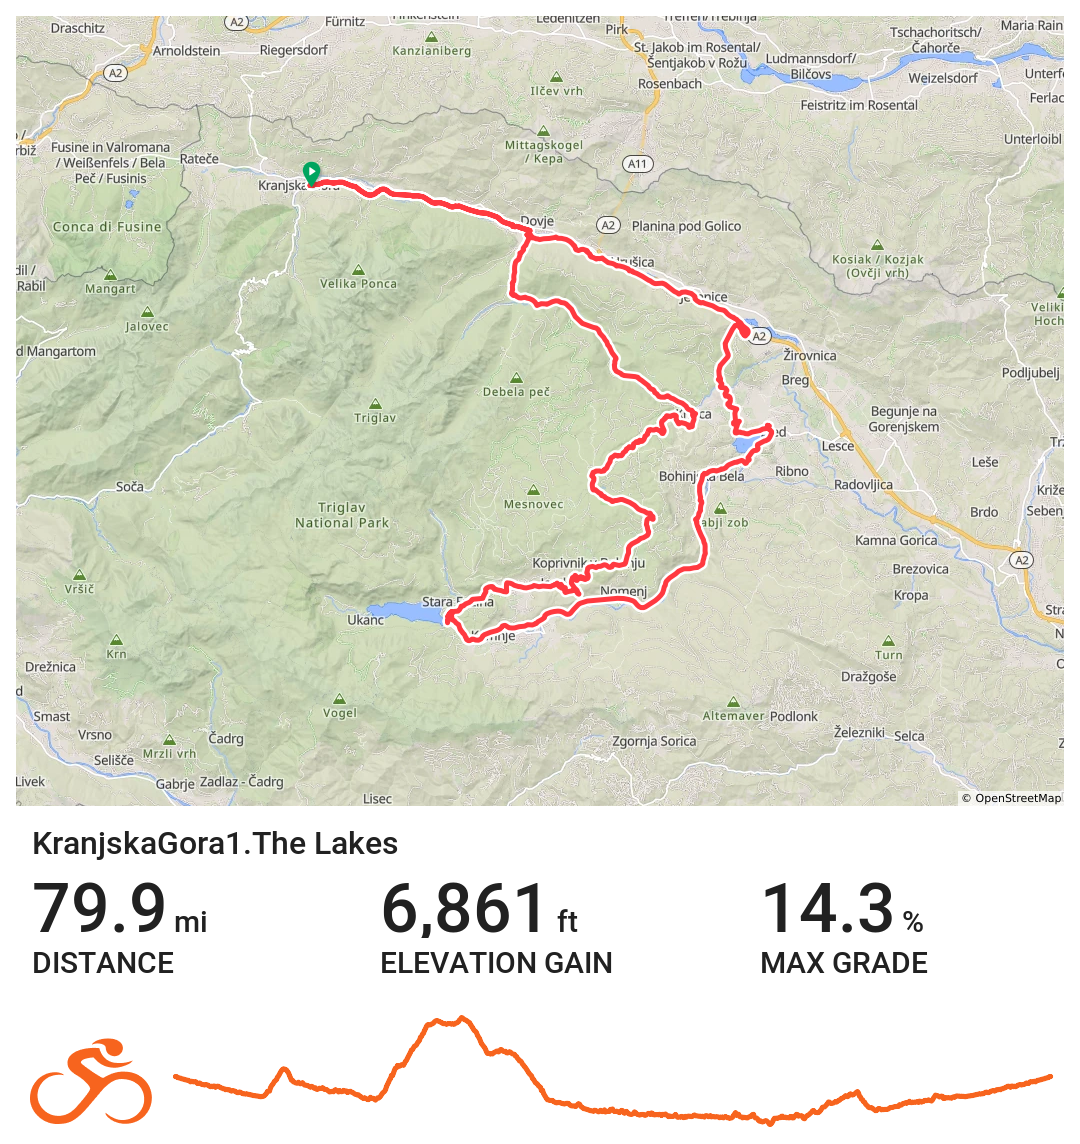
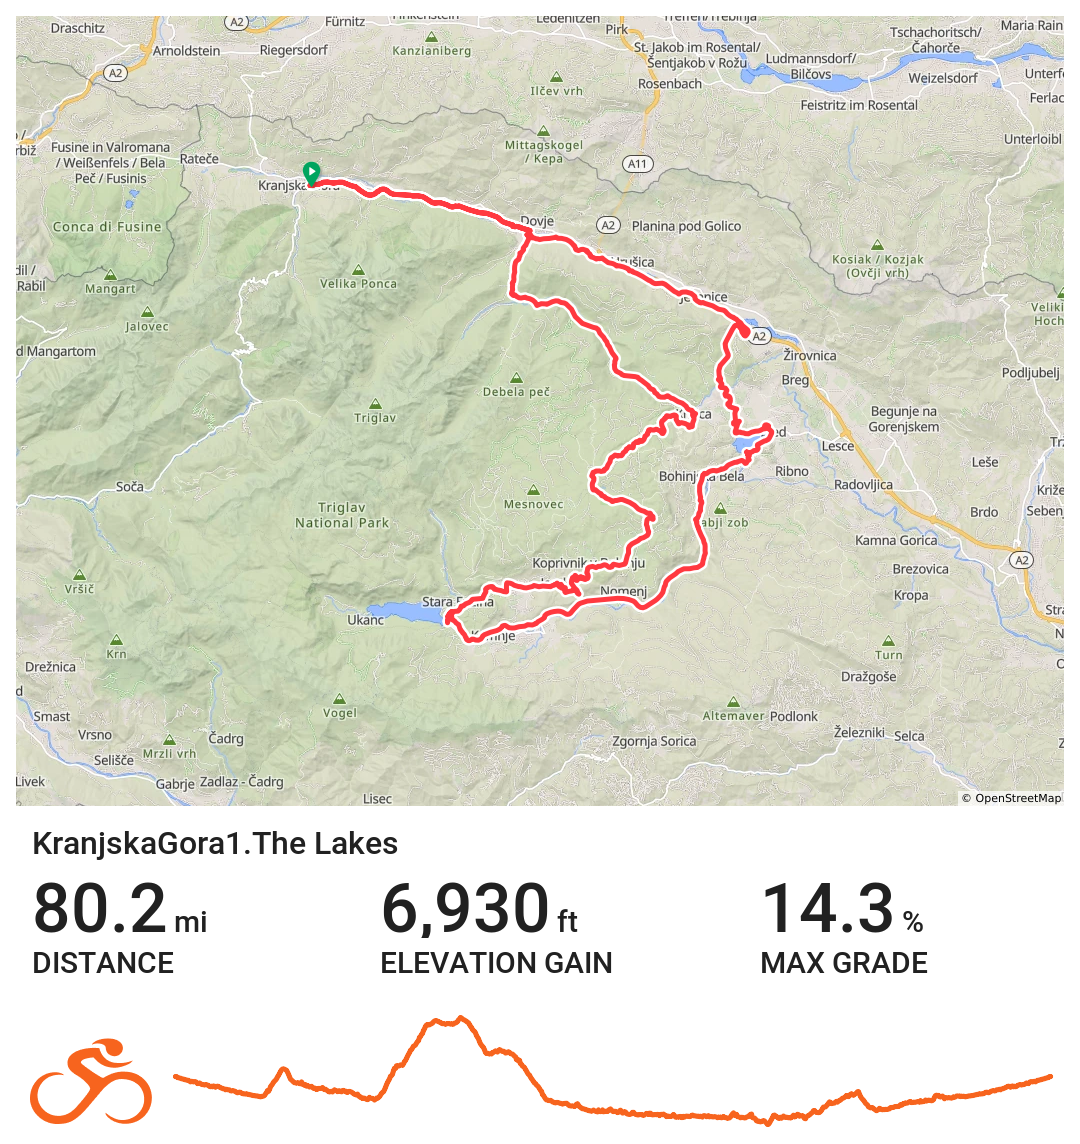
hhh

diff --git a/2027_Slovenia_Alps.html b/2027_Slovenia_Alps.html
@@ -413,6 +413,21 @@
                     <p>📍 Bohinj</p>
                     <p>🚴 Distance: 39 miles</p>
                   </div>
+                  <div class="cafe-entry">
+                    <p class="cafe-name">
+                      <span>Café Belvedere - Vila Bled</span>
+                      <a
+                        href="https://www.google.co.uk/maps/place/Caf%C3%A9+Belvedere+-+Vila+Bled/@46.3588461,14.0917806,17z/data=!3m1!4b1!4m6!3m5!1s0x477a91483718286d:0xa7570b1c5383f2ff!8m2!3d46.3588461!4d14.0917806!16s%2Fg%2F11b_30jj4j"
+                        target="_blank"
+                        rel="noopener"
+                        class="cafe-link">
+                        View Map <i class="fa-solid fa-arrow-up-right-from-square"></i>
+                      </a>
+                    </p>
+
+                    <p>📍 Bled</p>
+                    <p>🚴 Distance: 55 miles</p>
+                  </div>
                 </div>
               </div>
 
@@ -687,6 +702,41 @@
                   Valley before heading towards the picturesque town of Bled for our first cafe stop. A loop arond the
                   lake provides stunning views and a chance to rest and recharge before looping back to Kranjska Gora.
                 </p>
+                <div class="cafe-card">
+                  <h5>Cafés En-Route:</h5>
+
+                  <div class="cafe-entry">
+                    <p class="cafe-name">
+                      <span>Café Belvedere - Vila Bled</span>
+                      <a
+                        href="https://www.google.co.uk/maps/place/Caf%C3%A9+Belvedere+-+Vila+Bled/@46.3588461,14.0917806,17z/data=!3m1!4b1!4m6!3m5!1s0x477a91483718286d:0xa7570b1c5383f2ff!8m2!3d46.3588461!4d14.0917806!16s%2Fg%2F11b_30jj4j"
+                        target="_blank"
+                        rel="noopener"
+                        class="cafe-link">
+                        View Map <i class="fa-solid fa-arrow-up-right-from-square"></i>
+                      </a>
+                    </p>
+
+                    <p>📍 Bled</p>
+                    <p>🚴 Distance: 24 miles</p>
+                  </div>
+
+                  <div class="cafe-entry">
+                    <p class="cafe-name">
+                      <span>Kavarna Park</span>
+                      <a
+                        href="https://www.google.co.uk/maps/place/Kavarna+Park/@46.3674069,14.1060427,17z/data=!3m1!4b1!4m6!3m5!1s0x477a96cd5e9b3461:0x8c1ee1f07f480e48!8m2!3d46.3674069!4d14.1086176!16s%2Fg%2F11cn8tdr_t"
+                        target="_blank"
+                        rel="noopener"
+                        class="cafe-link">
+                        View Map <i class="fa-solid fa-arrow-up-right-from-square"></i>
+                      </a>
+                    </p>
+
+                    <p>📍 Bled</p>
+                    <p>🚴 Distance: 25 miles</p>
+                  </div>
+                </div>
               </div>
               <div class="route1-card">
                 <h4>Route 8: Tržič Out and Back</h4>
